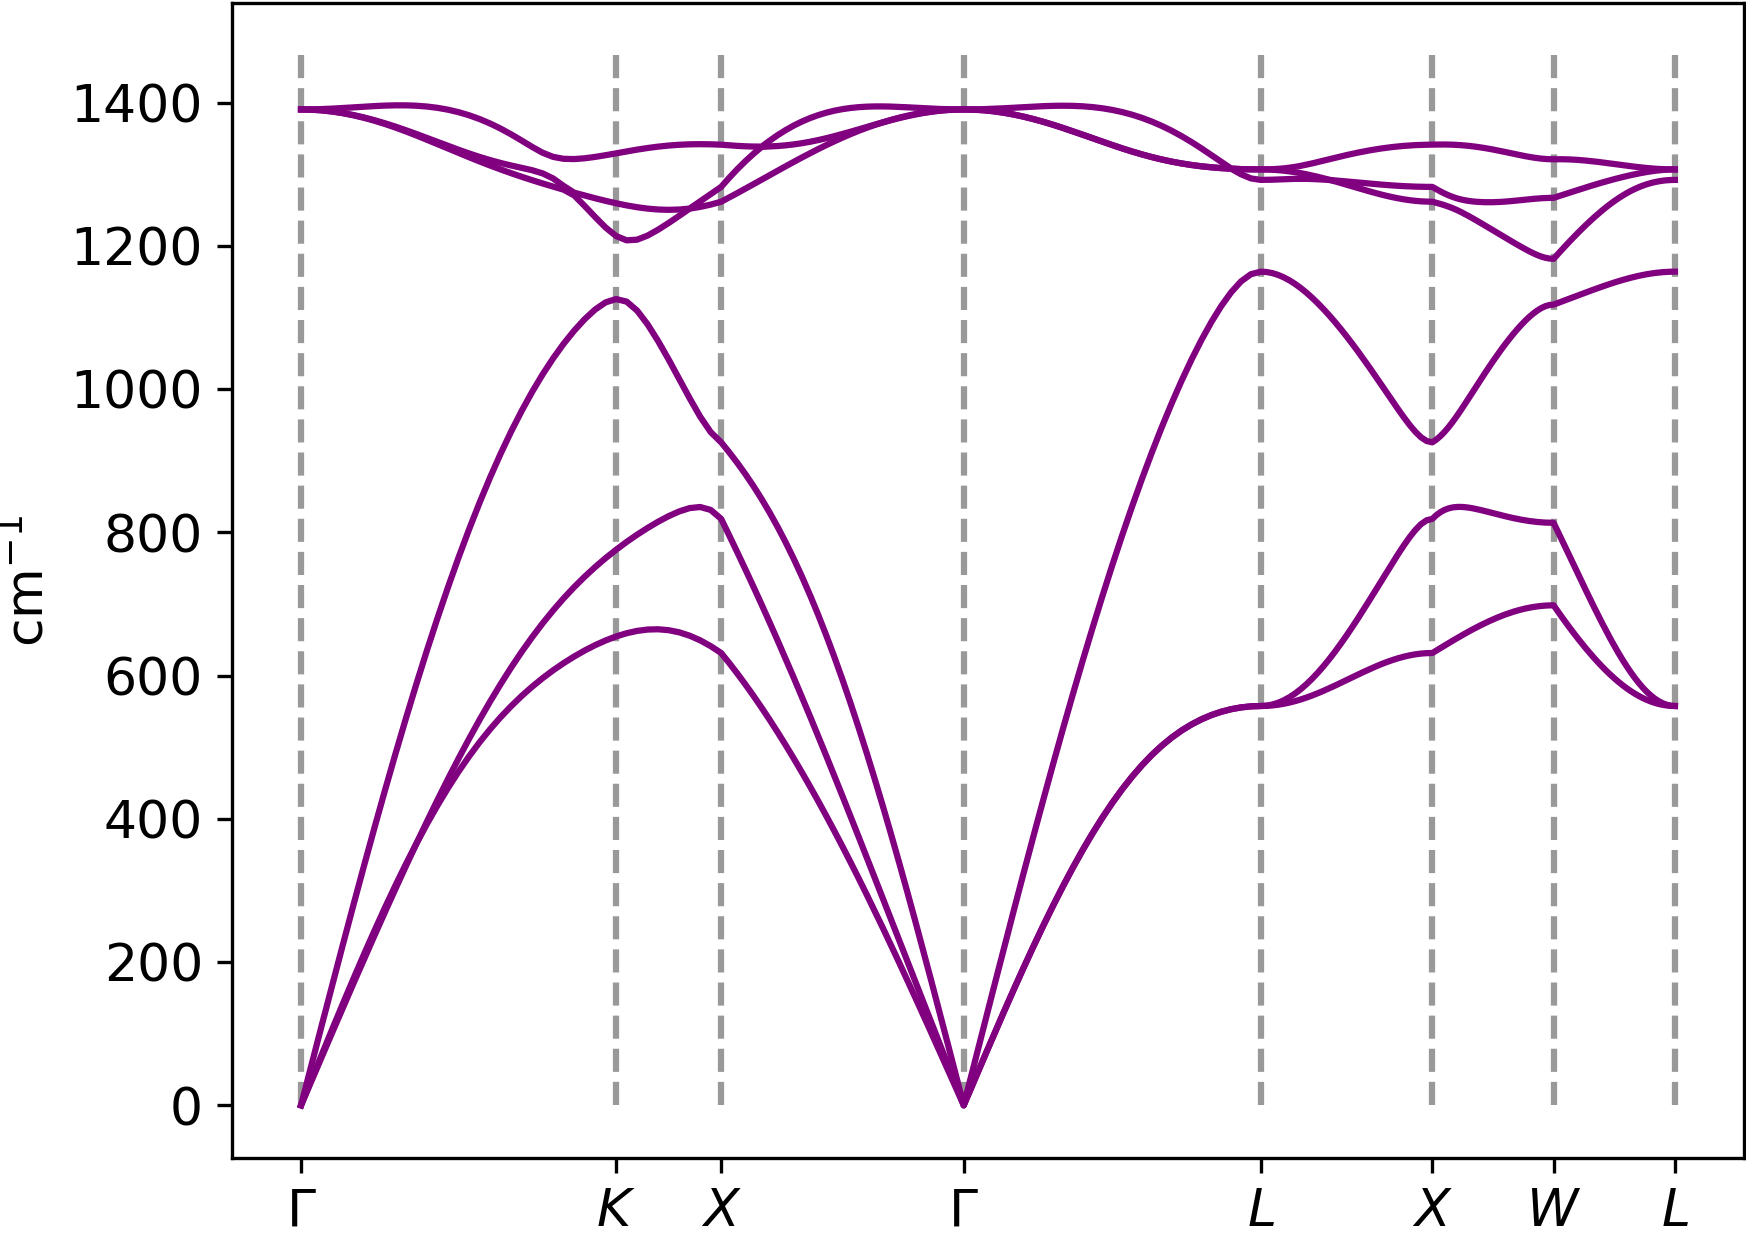
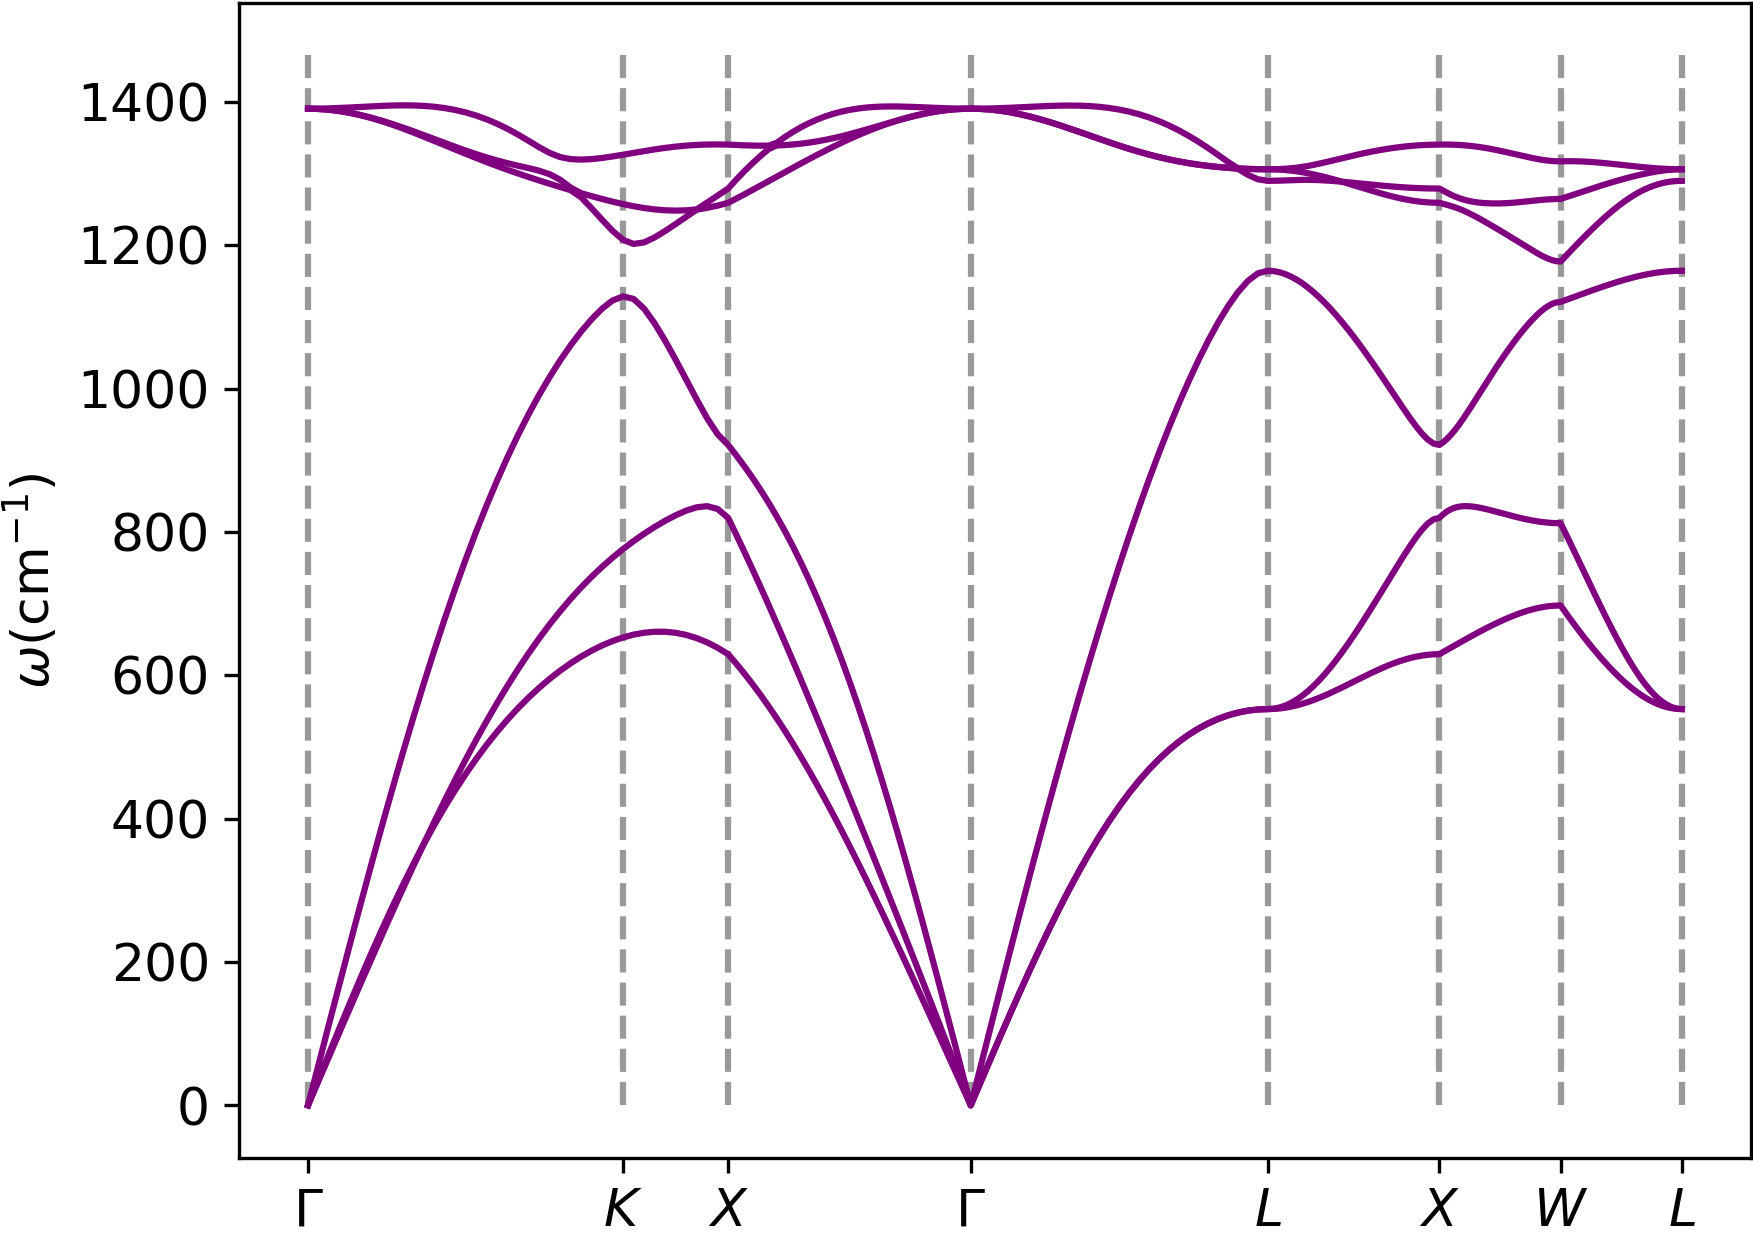
lab 8 typos

diff --git a/docs/labs/lab08/02_CarbonDiamond/PHONON_BAND.py b/docs/labs/lab08/02_CarbonDiamond/PHONON_BAND.py
@@ -54,6 +54,6 @@ for j in range(1,bands.shape[-1]):
     plt.plot(qpoints,bands[:,j],c='purple')
 plt.xticks(qmarker_pos,qmarker_lab,fontsize=fontsize)
 plt.yticks(fontsize=fontsize)
-plt.ylabel(r'$\mathrm{cm}^{-1}$',fontsize=fontsize)
+plt.ylabel(r'$\omega (\mathrm{cm}^{-1})$',fontsize=fontsize)
 plt.savefig('bands', dpi=300, bbox_inches="tight",pad_inches=0.01)
 plt.show()

diff --git a/docs/labs/lab08/readme.md b/docs/labs/lab08/readme.md
@@ -137,12 +137,12 @@ There are two important output files created by the `ph.x` calculation. The firs
          q = (    0.000000000   0.000000000   0.000000000 ) 
     
      ************************************************************************** #(6)! 
-         freq (    4) =       2.236301 [THz] =      74.594963 [cm-1]  #(7)!
-     ( -0.000000  0.000000 -0.000000  0.000000  0.000001  0.000000 )  #(8)!
-     (  0.353553  0.000000 -0.353553  0.000000  0.000001  0.000000 )  #(9)!
-     ( -0.353553  0.000000  0.353553  0.000000  0.000001  0.000000 ) 
-     ( -0.353553  0.000000 -0.353553  0.000000  0.000001  0.000000 ) 
-     (  0.353553  0.000000  0.353553  0.000000  0.000001  0.000000 ) 
+         freq (    4) =       2.365513 [THz] =      78.905014 [cm-1]  #(7)!
+     (  0.000000  0.000000  0.000092  0.000000  0.000000  0.000000 )  #(8)!
+     ( -0.353554  0.000000  0.000093  0.000000  0.353553  0.000000 )  #(9)!
+     ( -0.353554  0.000000  0.000093  0.000000 -0.353553  0.000000 ) 
+     (  0.353554  0.000000  0.000093  0.000000  0.353553  0.000000 ) 
+     (  0.353554  0.000000  0.000093  0.000000 -0.353553  0.000000 ) 
     ```
         1. This tells us the wave vector of the vibration. Here, this is the $\Gamma$ point. 
         2. The matrix shown below is $D_{1{\alpha}2{\beta}}=\frac{1}{\sqrt{M_{1}M_{2}}}K_{1{\alpha}2{\beta}}$, i.e. the dynamical matrix associated with the displacements of atoms 1 and 2 along Cartesian directions $\alpha$ and $\beta$. 
@@ -160,7 +160,7 @@ There are two important output files created by the `ph.x` calculation. The firs
         15, since there are 15 frequencies in the file. This is expected because there are 5 atoms so the number of normal modes is $5\times3=15$.  
 
     ??? success "What are the **distinct** frequencies (up to 2 decimal places)?"
-        The distinct frequencies are 0.01 THz, 2.37 THz, 37.37 THz, 44.29 THz, 87.07 THz, and 90.89 THz. Note that there are always three normal modes with nearly zero frequencies. 
+        The distinct frequencies are -0.01 THz, 2.37 THz, 37.37 THz, 44.29 THz, 87.07 THz, and 90.89 THz. Note that there are always three normal modes with nearly zero frequencies. However, they are slightly negative in our calculations because of numerical accuracies. You can increase the PW cutoff to reduce them, but the `ph.x` calculation will take longer.  
 
     ??? success "What are the degeneracies of each distinct frequency?"
         In the order of increasing energy, the degeneracies (i.e. the number of normal modes with the same frequency) are 3, 3, 3, 2, 1, 3. One finds such degeneracies in molecules that have a symmetrical shape. 
@@ -217,7 +217,7 @@ We will now go through the calculations using carbon diamond as an example.
 !!! example "Task 4a - run `pw.x`"
     - Go to the directory `02_CarbonDiamond`.
     - Read the input file `01_CD_scf.in`. 
-        - Again the variable `ecutrho` is set tighter. 
+        - Note that the variable `ecutrho` is set tighter for DFPT calculation of phonons. 
         - The prefix is defined explicitly as `'CD'`. This is useful when you run multiple calculations in different directories.
         - All other variables should be familiar to you.  
     - Run `pw.x < 01_CD_scf.in > pw.out`. 
